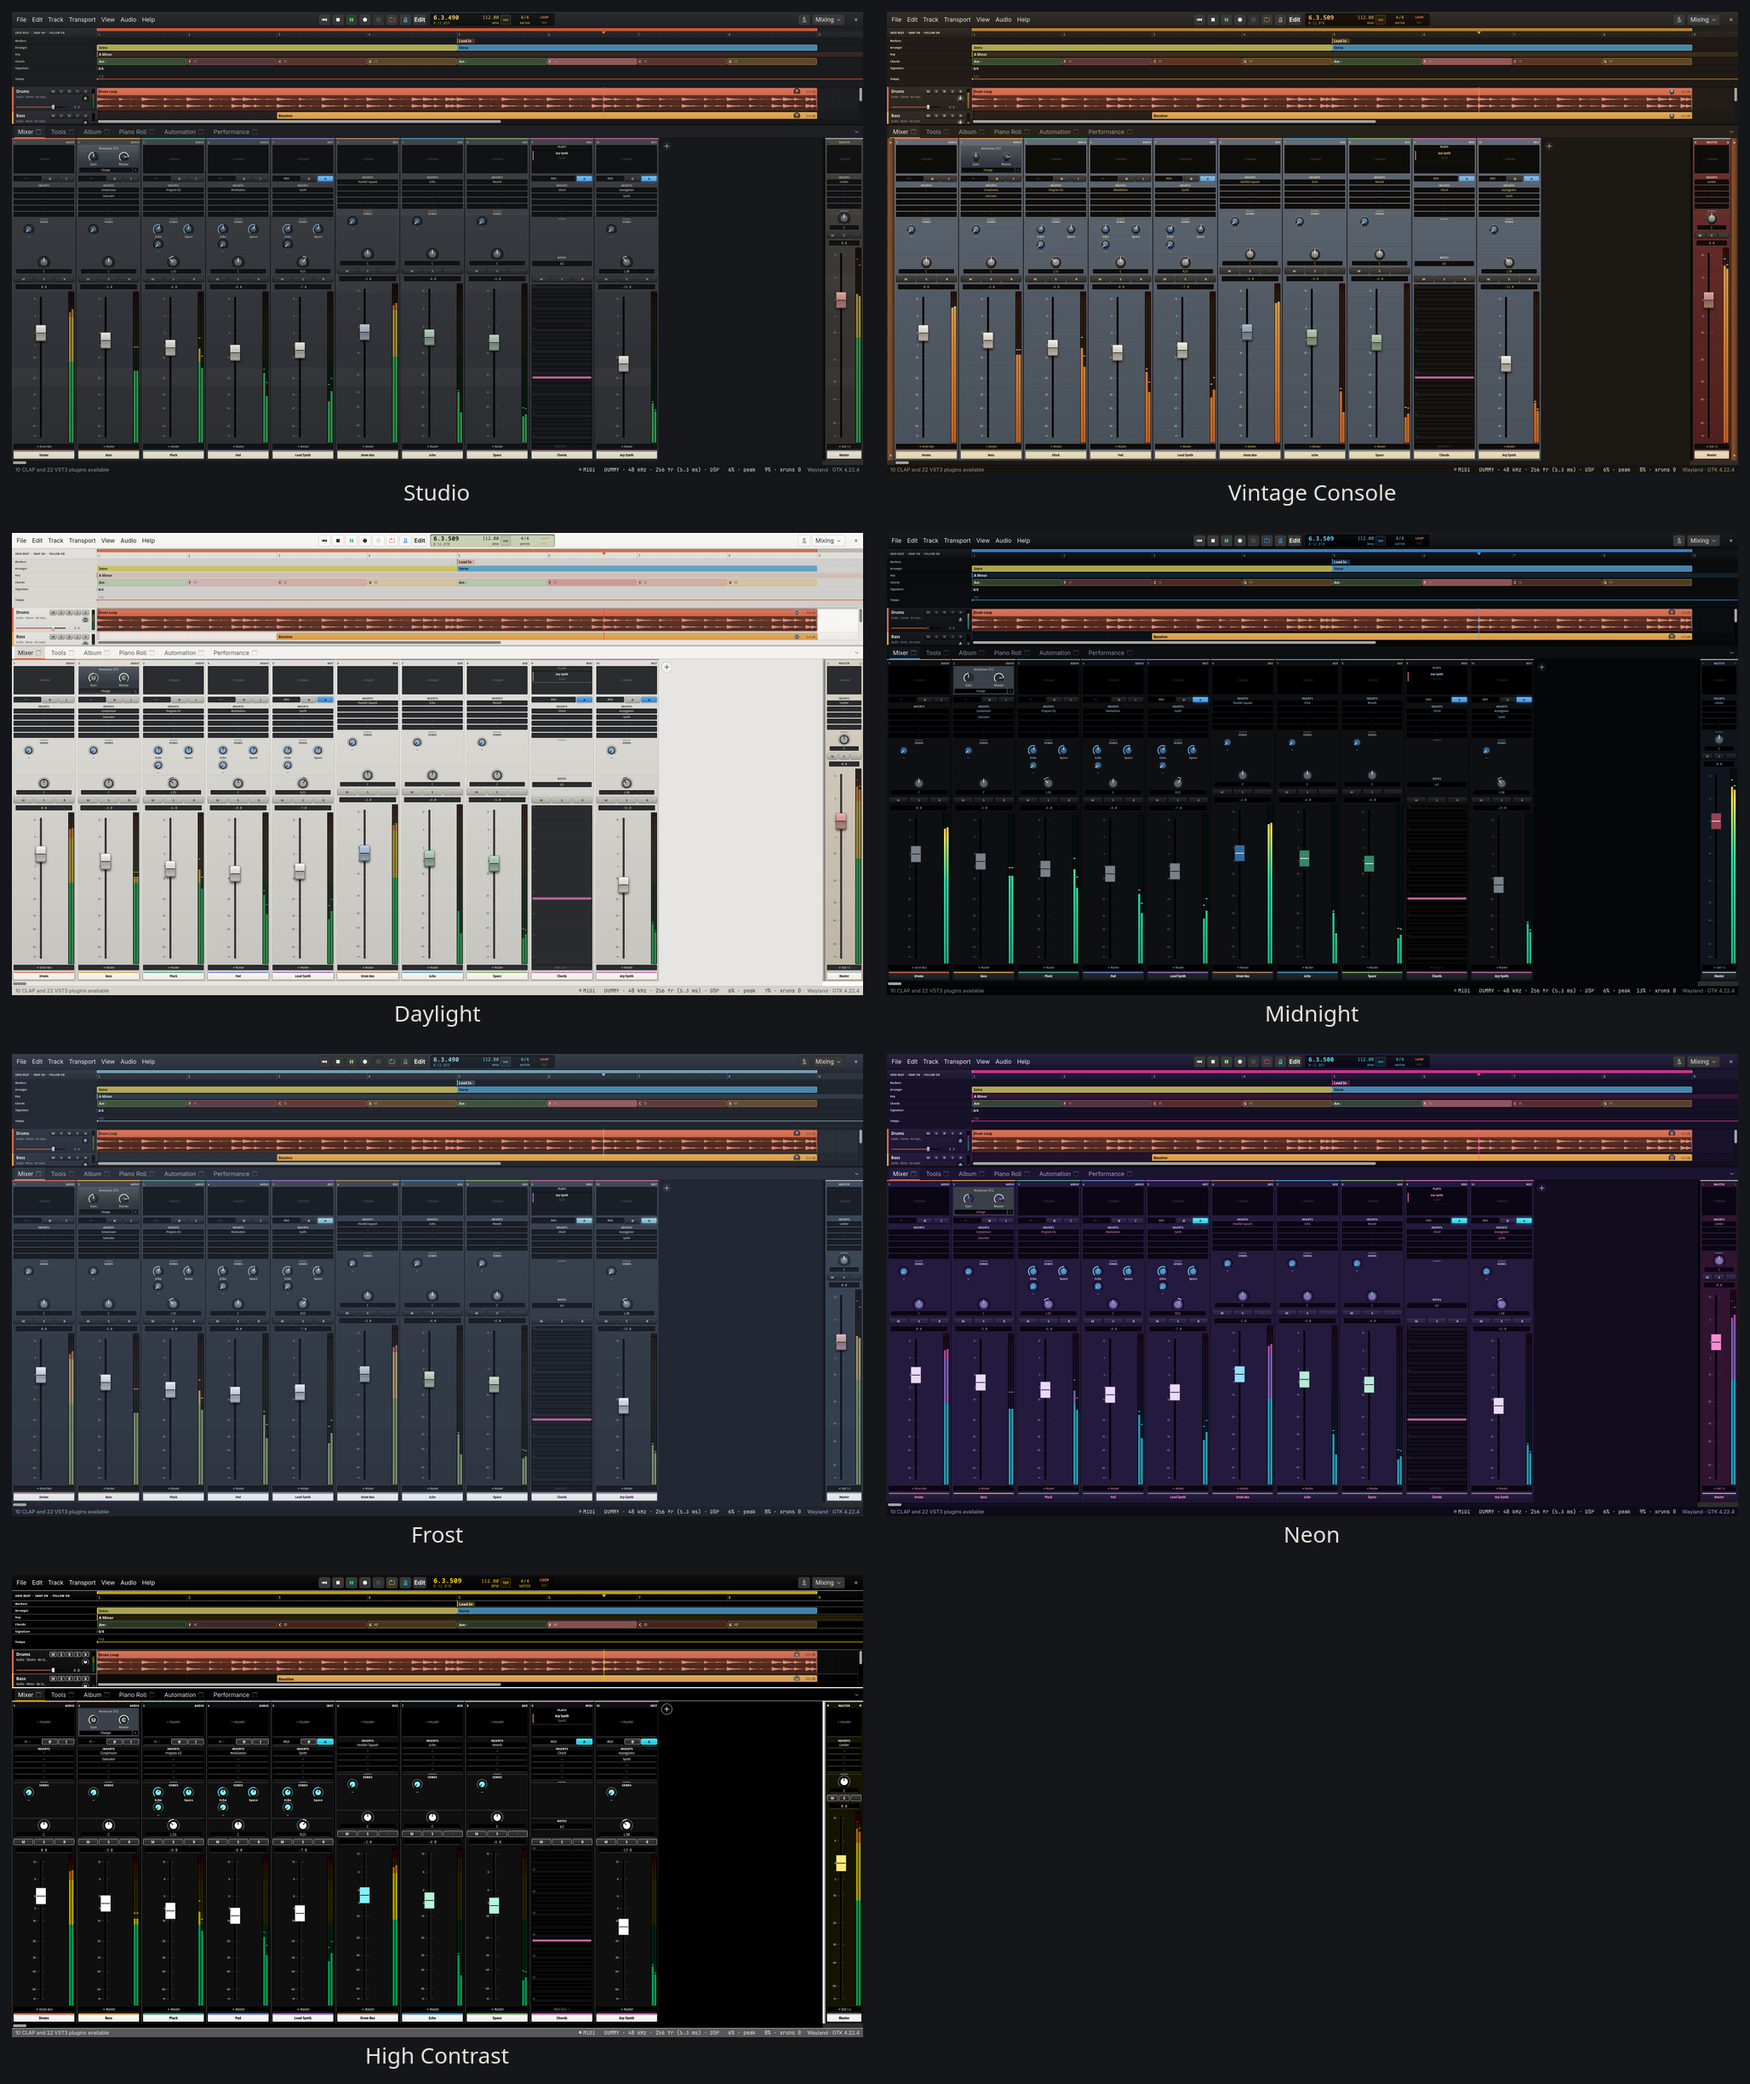
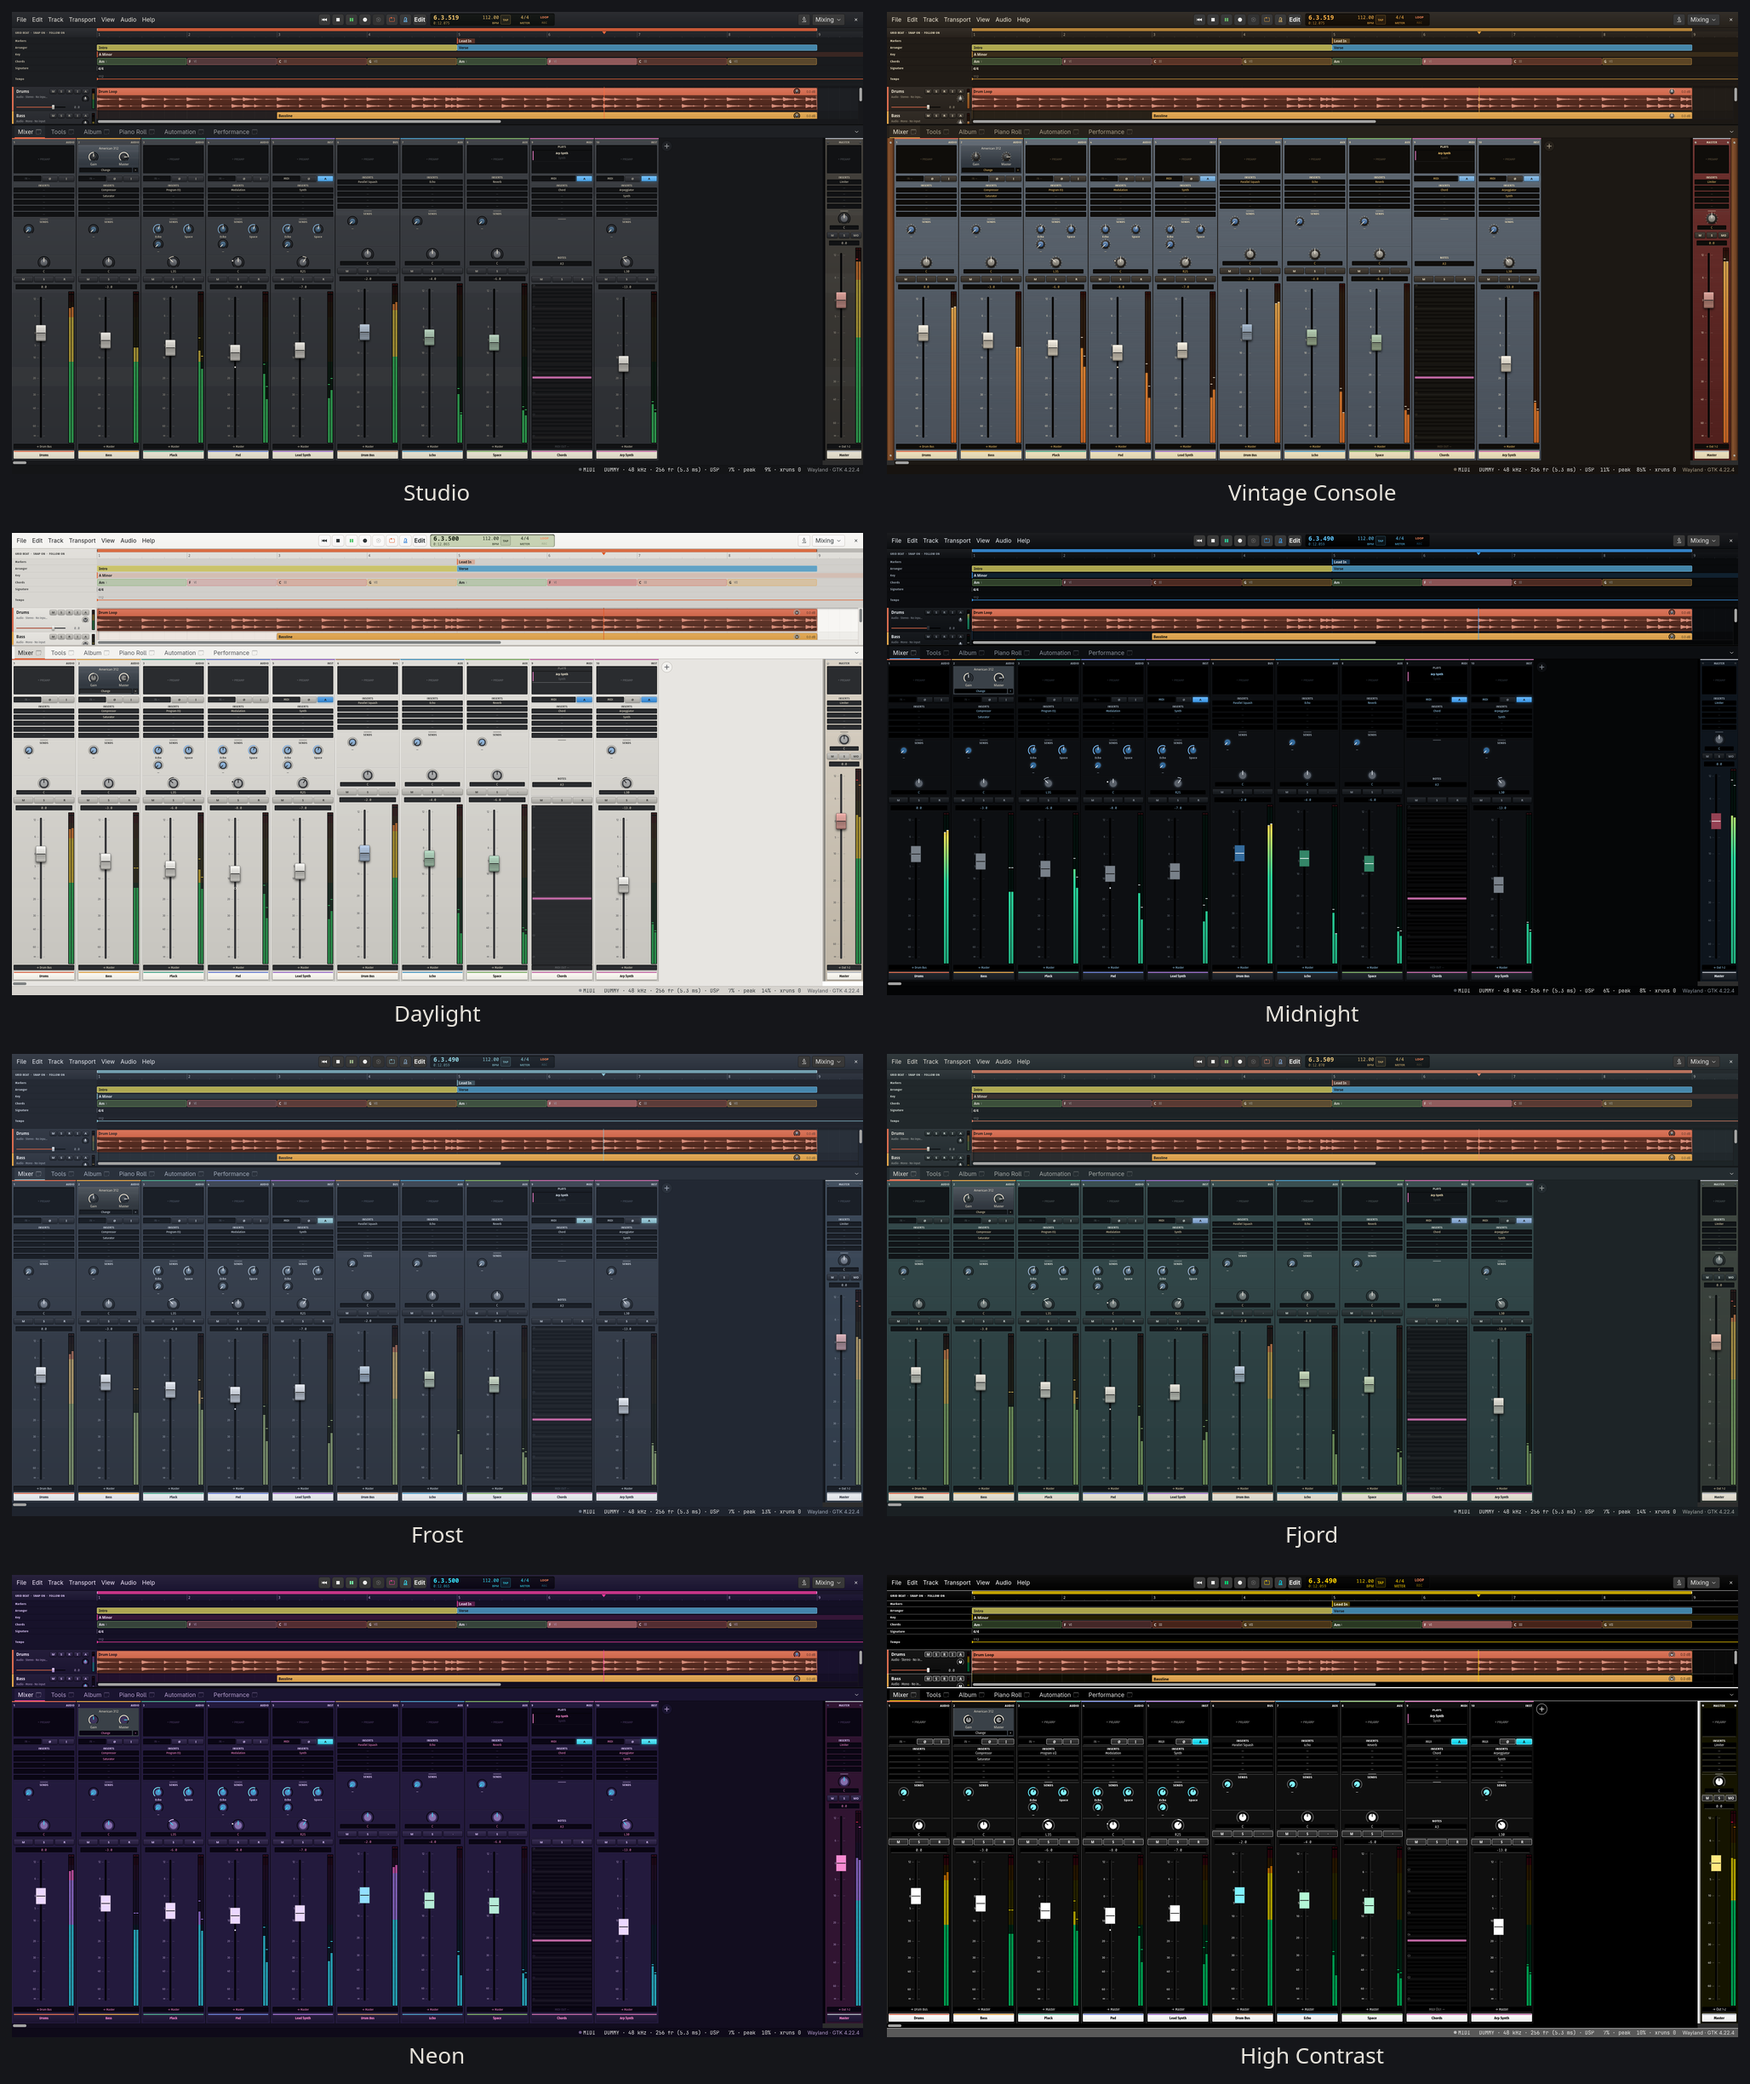
A new skin: Fjord
Dark slate with a hint of teal (between Adwaita's neutral greys and
Nord's cool blues), petrol console panels and an olive-grey master
section, a soft coral accent and old-gold displays, muted
gruvbox-material meter colours, and a calm contrast (about 12:1 for
text). README: the skin collage shows all eight, re-shot.

Claude-Session: https://claude.ai/code/session_016ACA3h9Xm4rTgvjXC2vUiY

Changed region(s): [[0.0, 0.4967, 0.9961, 0.9935]]

diff --git a/crates/faderframe-ui-canvas/src/themes.rs b/crates/faderframe-ui-canvas/src/themes.rs
@@ -545,6 +545,55 @@ pub fn neon() -> Theme {
     })
 }
 
+/// "Fjord": dusk over deep water — dark slate with a hint of teal, petrol
+/// console panels, a soft coral and old-gold light; calm contrast for long
+/// sessions.
+pub fn fjord() -> Theme {
+    build(Spec {
+        id: "fjord",
+        name: "Fjord",
+        dark: true,
+        fonts: fonts(),
+        bg: 0x1d2427,
+        surface: 0x242c30,
+        surface_alt: 0x2e373c,
+        border: 0x13181b,
+        text: 0xdedcd4,
+        text_dim: 0xa3a8a5,
+        text_faint: 0x6b7476,
+        accent: 0xe98a6d,
+        selection: 0x82aadb,
+        lcd: (0x111618, 0xe6c27a, 0x3b3a2e),
+        panel: (0x34494b, 0x283b3d),
+        master_panel: (0x3f4741, 0x2f3632),
+        panel_label: 0xd5dfda,
+        edges: (0.08, 0.5),
+        well: 0x111518,
+        well_text: (0xe8d8b0, 0x4b5557),
+        knob: [0x161b1d, 0x3b4a4c, 0x5e7072, 0x2f3c3e, 0xf1ede3, 0x141a1c],
+        knob_caps: [0x82aadb, 0xa3a8a5, 0xe98a6d],
+        fader: [0x0e1214, 0xebe8df, 0x8f9891, 0xa3a8a5],
+        fader_caps: [0xdcd9cf, 0x82aadb, 0x93be86, 0xe98a6d],
+        meter: ([0x0b0e0f, 0x93c27a, 0xe3c35e, 0xea955b, 0xec6b5f], 0.12),
+        leds: [0xe4b155, 0x93c27a, 0xec6b5f, 0x82aadb, 0xc49ad5],
+        led_off: [0x263133, 0xd5dfda, 0x0e1214],
+        scribble: (0xe9e4d6, 0x23292b),
+        editor_bg: 0x20272b,
+        lanes: (0x242c30, 0x21282c, 0x2b3640),
+        header: (0x283135, 0x324049, 0x161b1e),
+        ruler: (0x252d31, 0xc9cfcc),
+        line: (0xe6efe9, 1.0),
+        clip_text: 0x15191b,
+        outline: 0xf1ede3,
+        keys: [0xe3e0d7, 0xb8bab3, 0x1c2124, 0x6b7476],
+        look: ConsoleLook {
+            sheen: 0.3,
+            engrave: Color::rgba(0.0, 0.0, 0.0, 0.45),
+            ..ConsoleLook::default()
+        },
+    })
+}
+
 /// "High Contrast": black and white with strong colours and larger type.
 pub fn high_contrast() -> Theme {
     build(Spec {
@@ -608,6 +657,7 @@ impl Theme {
             vintage(),
             midnight(),
             frost(),
+            fjord(),
             neon(),
             high_contrast(),
         ]
@@ -629,7 +679,7 @@ mod tests {
     #[test]
     fn skins_are_distinct_and_found_by_id() {
         let all = Theme::all();
-        assert_eq!(all.len(), 7);
+        assert_eq!(all.len(), 8);
         let mut ids: Vec<_> = all.iter().map(|t| t.id).collect();
         ids.sort_unstable();
         ids.dedup();

diff --git a/docs/ARCHITECTURE.md b/docs/ARCHITECTURE.md
@@ -2522,9 +2522,9 @@ the event loop. DAW work surfaces are **custom-rendered views**:
   fader, meter, LED buttons, scribble strips) using a `Theme` (skins
   replace the theme, not the views). Track headers reuse the same
   controls.
-* **Skins.** `Theme::all()` lists seven (`themes.rs` derives each from a
+* **Skins.** `Theme::all()` lists eight (`themes.rs` derives each from a
   compact `Spec` of base colours): Studio, Vintage Console, Daylight
-  (light), Midnight, Frost, Neon and High Contrast. Besides colours a theme
+  (light), Midnight, Frost, Fjord, Neon and High Contrast. Besides colours a theme
   has a `ConsoleLook`: skirted knobs (with or without a value ring), flat
   or glossy controls, brushed-metal panel grain, screws, walnut cheeks
   framing the mixer, and the meter kind — LED ladder, continuous bar,
@@ -2962,7 +2962,7 @@ sections (moved, copied and deleted with their content), time signatures
 and the tempo map, and track colours from a colour chooser.
 
 Shell: docking and detaching, workspaces (Recording, Editing, Mixing,
-MIDI, Mastering), seven skins switched live, performance meter,
+MIDI, Mastering), eight skins switched live, performance meter,
 preferences, recent projects and start-up choice. Windows and macOS builds
 and packages for all three platforms (see §14).
 

diff --git a/README.md b/README.md
@@ -99,12 +99,13 @@ drum bus and the program EQ:
 
 ![EQ, synth, compressor, reverb, container and program EQ editors](docs/screenshots/devices.png)
 
-Seven skins, switched live (View → Theme or Preferences → General → Theme):
+Eight skins, switched live (View → Theme or Preferences → General → Theme):
 Studio, Vintage Console (walnut cheeks, enamel panels, skirted knobs,
-plasma bar-graph meters), Daylight (light), Midnight, Frost, Neon and High
-Contrast:
+plasma bar-graph meters), Daylight (light), Midnight, Frost, Fjord (dark
+slate and petrol panels with coral and old-gold light, calm contrast for
+long sessions), Neon and High Contrast:
 
-![The seven skins](docs/screenshots/themes.png)
+![The eight skins](docs/screenshots/themes.png)
 
 ## What works today
 
